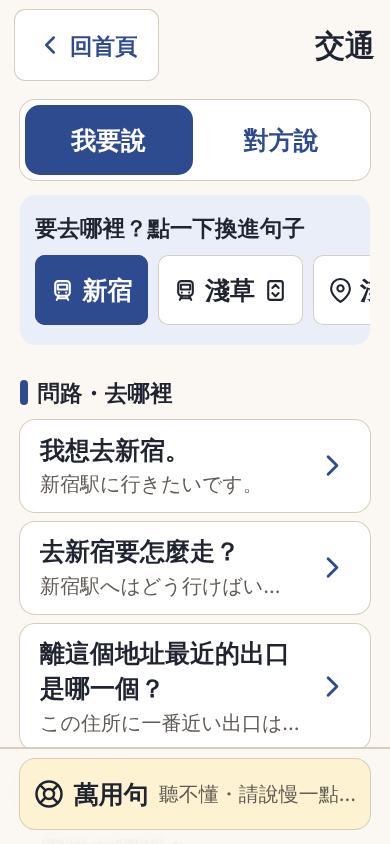
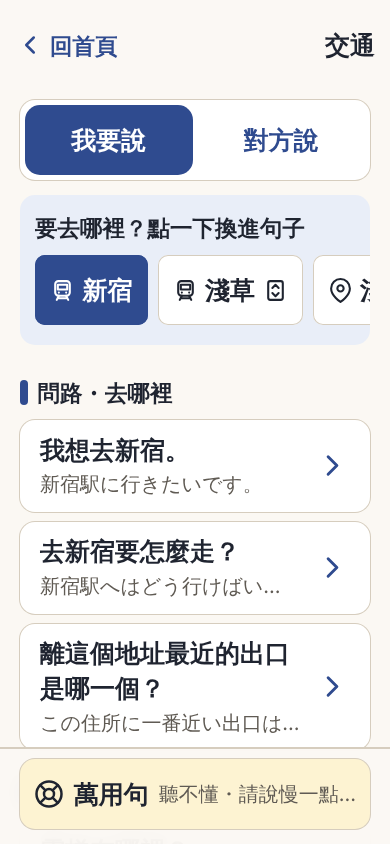
Polish: calmer header, share page and phone numbers (#16)
- Header: the back link is a plain chevron + text link (still a 56px
  target) and the title drops to text-xl, so pages open on content.
- Share page: the privacy note is a soft tinted caution without the
  heavy red border; the raw link text folds under 顯示連結文字 (the copy
  fallback unfolds it before selecting); the status line takes no space
  until it has something to say.
- Phone numbers never break: the hotel call button puts the label and
  the number on separate lines, and card lines keep 'TEL …' numbers on
  one line, shrinking on narrow screens at 特大 rather than wrapping.

Claude-Session: https://claude.ai/code/session_01FL5DYQMe9ZWzkevjtD88Bj

Changed region(s): [[0.1231, 0.0308, 0.3692, 0.0924], [0.8, 0.0308, 0.9538, 0.0924], [0.0615, 0.0308, 0.0923, 0.0616]]

diff --git a/src/ui/share.ts b/src/ui/share.ts
@@ -22,7 +22,8 @@ export function renderShare(root: HTMLElement): void {
     return;
   }
   const url = shareUrl(profile);
-  const status = h("p", { class: "mt-2 min-h-7 text-center text-lg font-bold text-ok", "aria-live": "polite" });
+  // Empty until there is something to say, so it takes no space before then.
+  const status = h("p", { class: "mt-2 text-center text-lg font-bold text-ok empty:mt-0", "aria-live": "polite" });
   const canShare = typeof navigator.share === "function";
 
   async function copy(): Promise<void> {
@@ -31,8 +32,10 @@ export function renderShare(root: HTMLElement): void {
       status.textContent = "已複製，可以貼到 LINE 傳給旅客。";
     } catch {
       // Clipboard needs a secure context and permission; selecting lets the person copy by hand.
+      // The text is folded away by default: unfold it so it can be selected by hand.
+      linkDetails.open = true;
       linkBox.select();
-      status.textContent = "請長按上面的連結，選「拷貝」。";
+      status.textContent = "請長按下面的連結，選「拷貝」。";
     }
     announce(status.textContent ?? "");
   }
@@ -52,6 +55,12 @@ export function renderShare(root: HTMLElement): void {
     onfocus: (event: Event) => (event.target as HTMLTextAreaElement).select(),
   });
   linkBox.value = url;
+  const linkDetails = h(
+    "details",
+    { class: "mt-3" },
+    h("summary", { class: "inline-flex min-h-12 cursor-pointer items-center text-lg font-bold text-ai" }, "顯示連結文字"),
+    linkBox,
+  );
 
   page(
     root,
@@ -59,7 +68,7 @@ export function renderShare(root: HTMLElement): void {
     [
       h(
         "div",
-        { class: "mt-2 flex gap-3 rounded-xl bg-shu-soft p-4 text-lg leading-relaxed text-ink ring-2 ring-shu", role: "note" },
+        { class: "mt-2 flex gap-3 rounded-xl bg-shu-soft p-4 text-lg leading-relaxed text-ink", role: "note" },
         h("span", { class: "shrink-0 text-shu" }, icon("alert", "h-7 w-7")),
         h(
           "p",
@@ -75,7 +84,7 @@ export function renderShare(root: HTMLElement): void {
           : null,
         h("button", { type: "button", class: `${canShare ? BUTTON.secondary : BUTTON.primary} mt-3`, onclick: () => void copy() }, icon("copy"), "複製連結"),
         status,
-        linkBox,
+        linkDetails,
       ),
       section(
         "或 2. 用相機掃 QR code",

diff --git a/src/ui/layout.ts b/src/ui/layout.ts
@@ -1,7 +1,7 @@
 import { fill, h, icon, type Child } from "./dom";
 
 /**
- * A page with a big "back" button and a title. Every page is one step from
+ * A page with a "back" link and a title. Every page is one step from
  * home, so back always goes home unless `back` says otherwise.
  */
 export function page(root: HTMLElement, title: string, body: Child[], options: { back?: string; backLabel?: string } = {}): void {
@@ -14,12 +14,13 @@ export function page(root: HTMLElement, title: string, body: Child[], options: {
         "a",
         {
           href: options.back ?? "#/",
-          class: "inline-flex min-h-14 shrink-0 items-center gap-1 rounded-lg bg-card px-4 text-lg font-bold text-ai ring-1 ring-hair active:scale-95",
+          // A quiet text link, still a 56px target: the page content is what should stand out.
+          class: "-ml-1 inline-flex min-h-14 shrink-0 items-center gap-1 rounded-lg px-1 text-lg font-bold text-ai active:bg-ai-soft",
         },
         icon("back", "h-6 w-6"),
         options.backLabel ?? "回首頁",
       ),
-      h("h1", { class: "min-w-0 flex-1 truncate text-right text-2xl font-bold" }, title),
+      h("h1", { class: "min-w-0 flex-1 truncate text-right text-xl font-bold" }, title),
     ),
     h("main", { class: "px-4 pb-16" }, body),
   );

diff --git a/src/ui/help.ts b/src/ui/help.ts
@@ -8,6 +8,21 @@ import { dock, heading } from "./layout";
 import { playButton } from "./japanese";
 import { showToOther } from "./overlay";
 
+/**
+ * A name, address or number line. A phone number may wrap after "TEL" but
+ * never inside the number, and shrinks on narrow screens rather than break.
+ */
+function extraLine(line: string): HTMLElement {
+  const phone = /^TEL (.+)$/.exec(line);
+  if (!phone) return h("p", { class: "break-words" }, line);
+  return h(
+    "p",
+    null,
+    "TEL ",
+    h("span", { class: "inline-block whitespace-nowrap text-[min(1em,7.5vw)]" }, phone[1]),
+  );
+}
+
 /** One block of the help card: Japanese large for the helper, Chinese small for the traveller. */
 export function cardBlock(block: CardBlock, size = "text-3xl"): HTMLElement {
   return h(
@@ -18,7 +33,7 @@ export function cardBlock(block: CardBlock, size = "text-3xl"): HTMLElement {
       h(
         "div",
         { lang: "ja", class: "mt-3 space-y-1 border-l-4 border-shu pl-3 text-2xl font-bold leading-snug" },
-        block.extra.map((line) => h("p", { class: "break-words" }, line)),
+        block.extra.map(extraLine),
       ),
     h("p", { class: "mt-2 text-lg text-muted" }, block.zh),
   );

diff --git a/src/ui/hotel.ts b/src/ui/hotel.ts
@@ -47,9 +47,15 @@ export function renderHotel(root: HTMLElement, [index]: string[]): void {
     phone &&
       h(
         "a",
-        { href: `tel:${phone.tel}`, class: `${BUTTON.secondary} mt-4` },
-        icon("phone"),
-        `打電話給飯店 ${phone.display}`,
+        { href: `tel:${phone.tel}`, class: `${BUTTON.secondary} mt-4 !justify-start` },
+        icon("phone", "h-6 w-6 shrink-0 text-ai"),
+        h(
+          "span",
+          { class: "min-w-0 text-left leading-tight" },
+          h("span", { class: "block text-lg" }, "打電話給飯店"),
+          // A phone number must never break across lines.
+          h("span", { class: "block whitespace-nowrap" }, phone.display),
+        ),
       ),
     others.length > 0 &&
       section(
